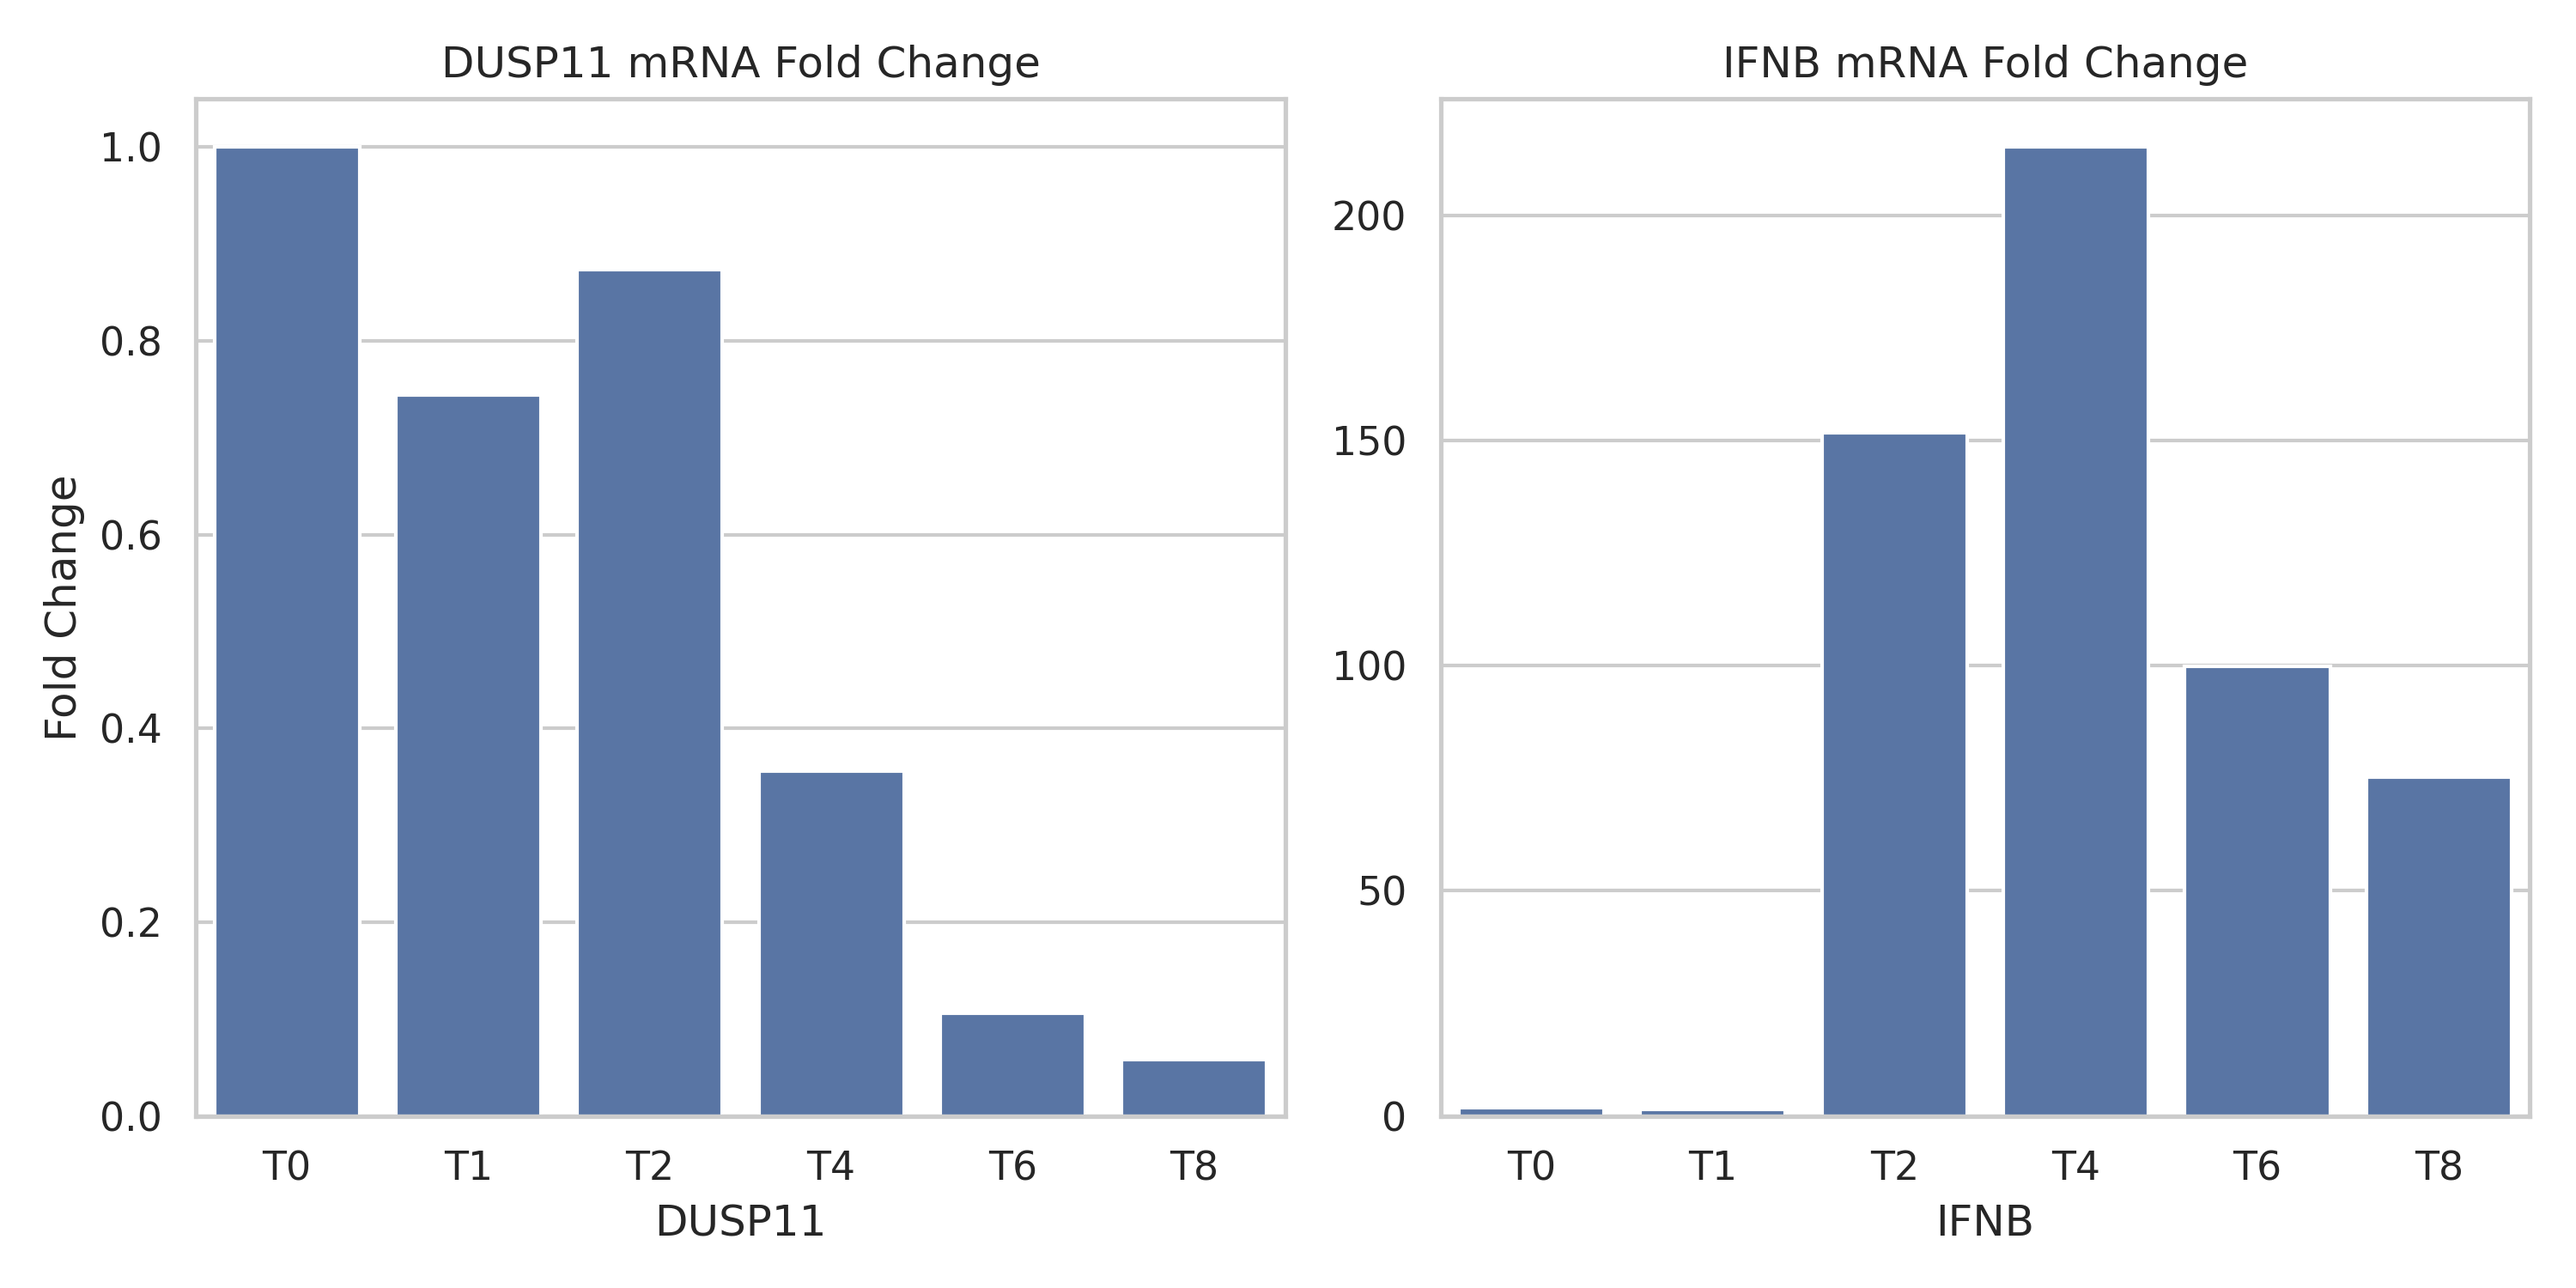
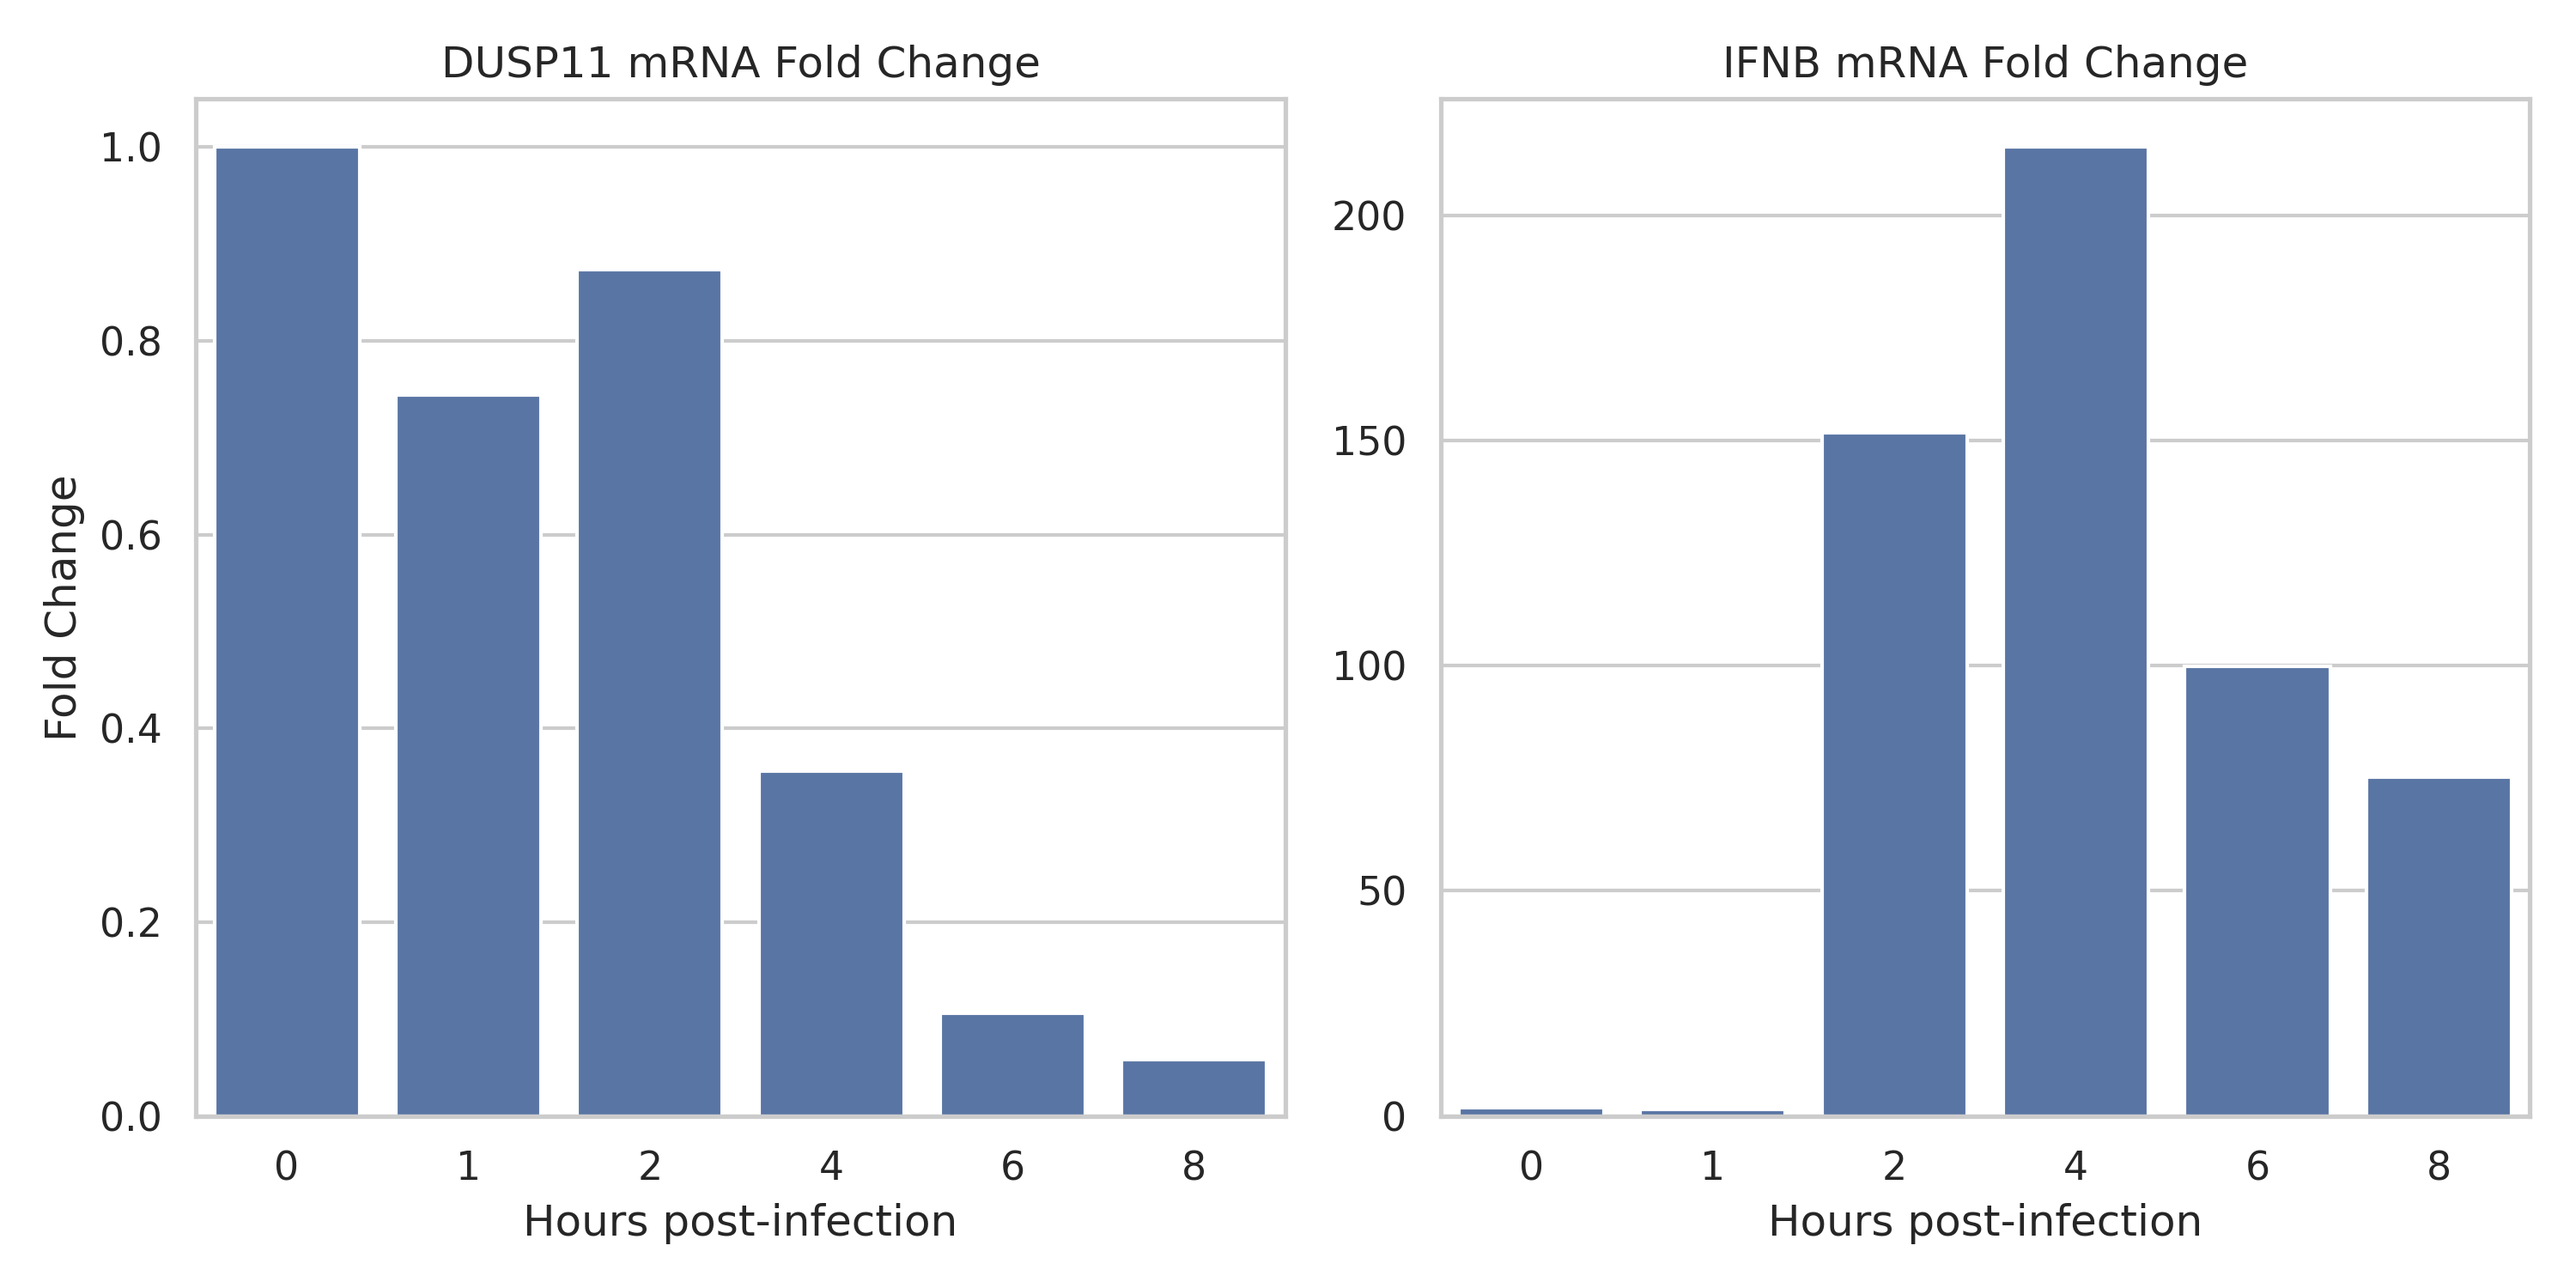
Change x-axis and tick labels

diff --git a/TN043/TN043.5.py b/TN043/TN043.5.py
@@ -97,14 +97,14 @@ fig2 = sns.barplot(
 )
 ax[0].set_xticks(range(6))
 ax[1].set_xticks(range(6))
-labels = ["T0", "T1", "T2", "T4", "T6", "T8"]
+labels = ["0", "1", "2", "4", "6", "8"]
 ax[0].set_xticklabels(labels)
 ax[1].set_xticklabels(labels)
 ax[0].set_title("DUSP11 mRNA Fold Change")
 ax[1].set_title("IFNB mRNA Fold Change")
 ax[0].set_ylabel("Fold Change")
 ax[1].set_ylabel("")
-ax[0].set_xlabel("DUSP11")
-ax[1].set_xlabel("IFNB")
+ax[0].set_xlabel("Hours post-infection")
+ax[1].set_xlabel("Hours post-infection")
 plt.tight_layout()
 plt.savefig("TN043_5.png", dpi=300)
